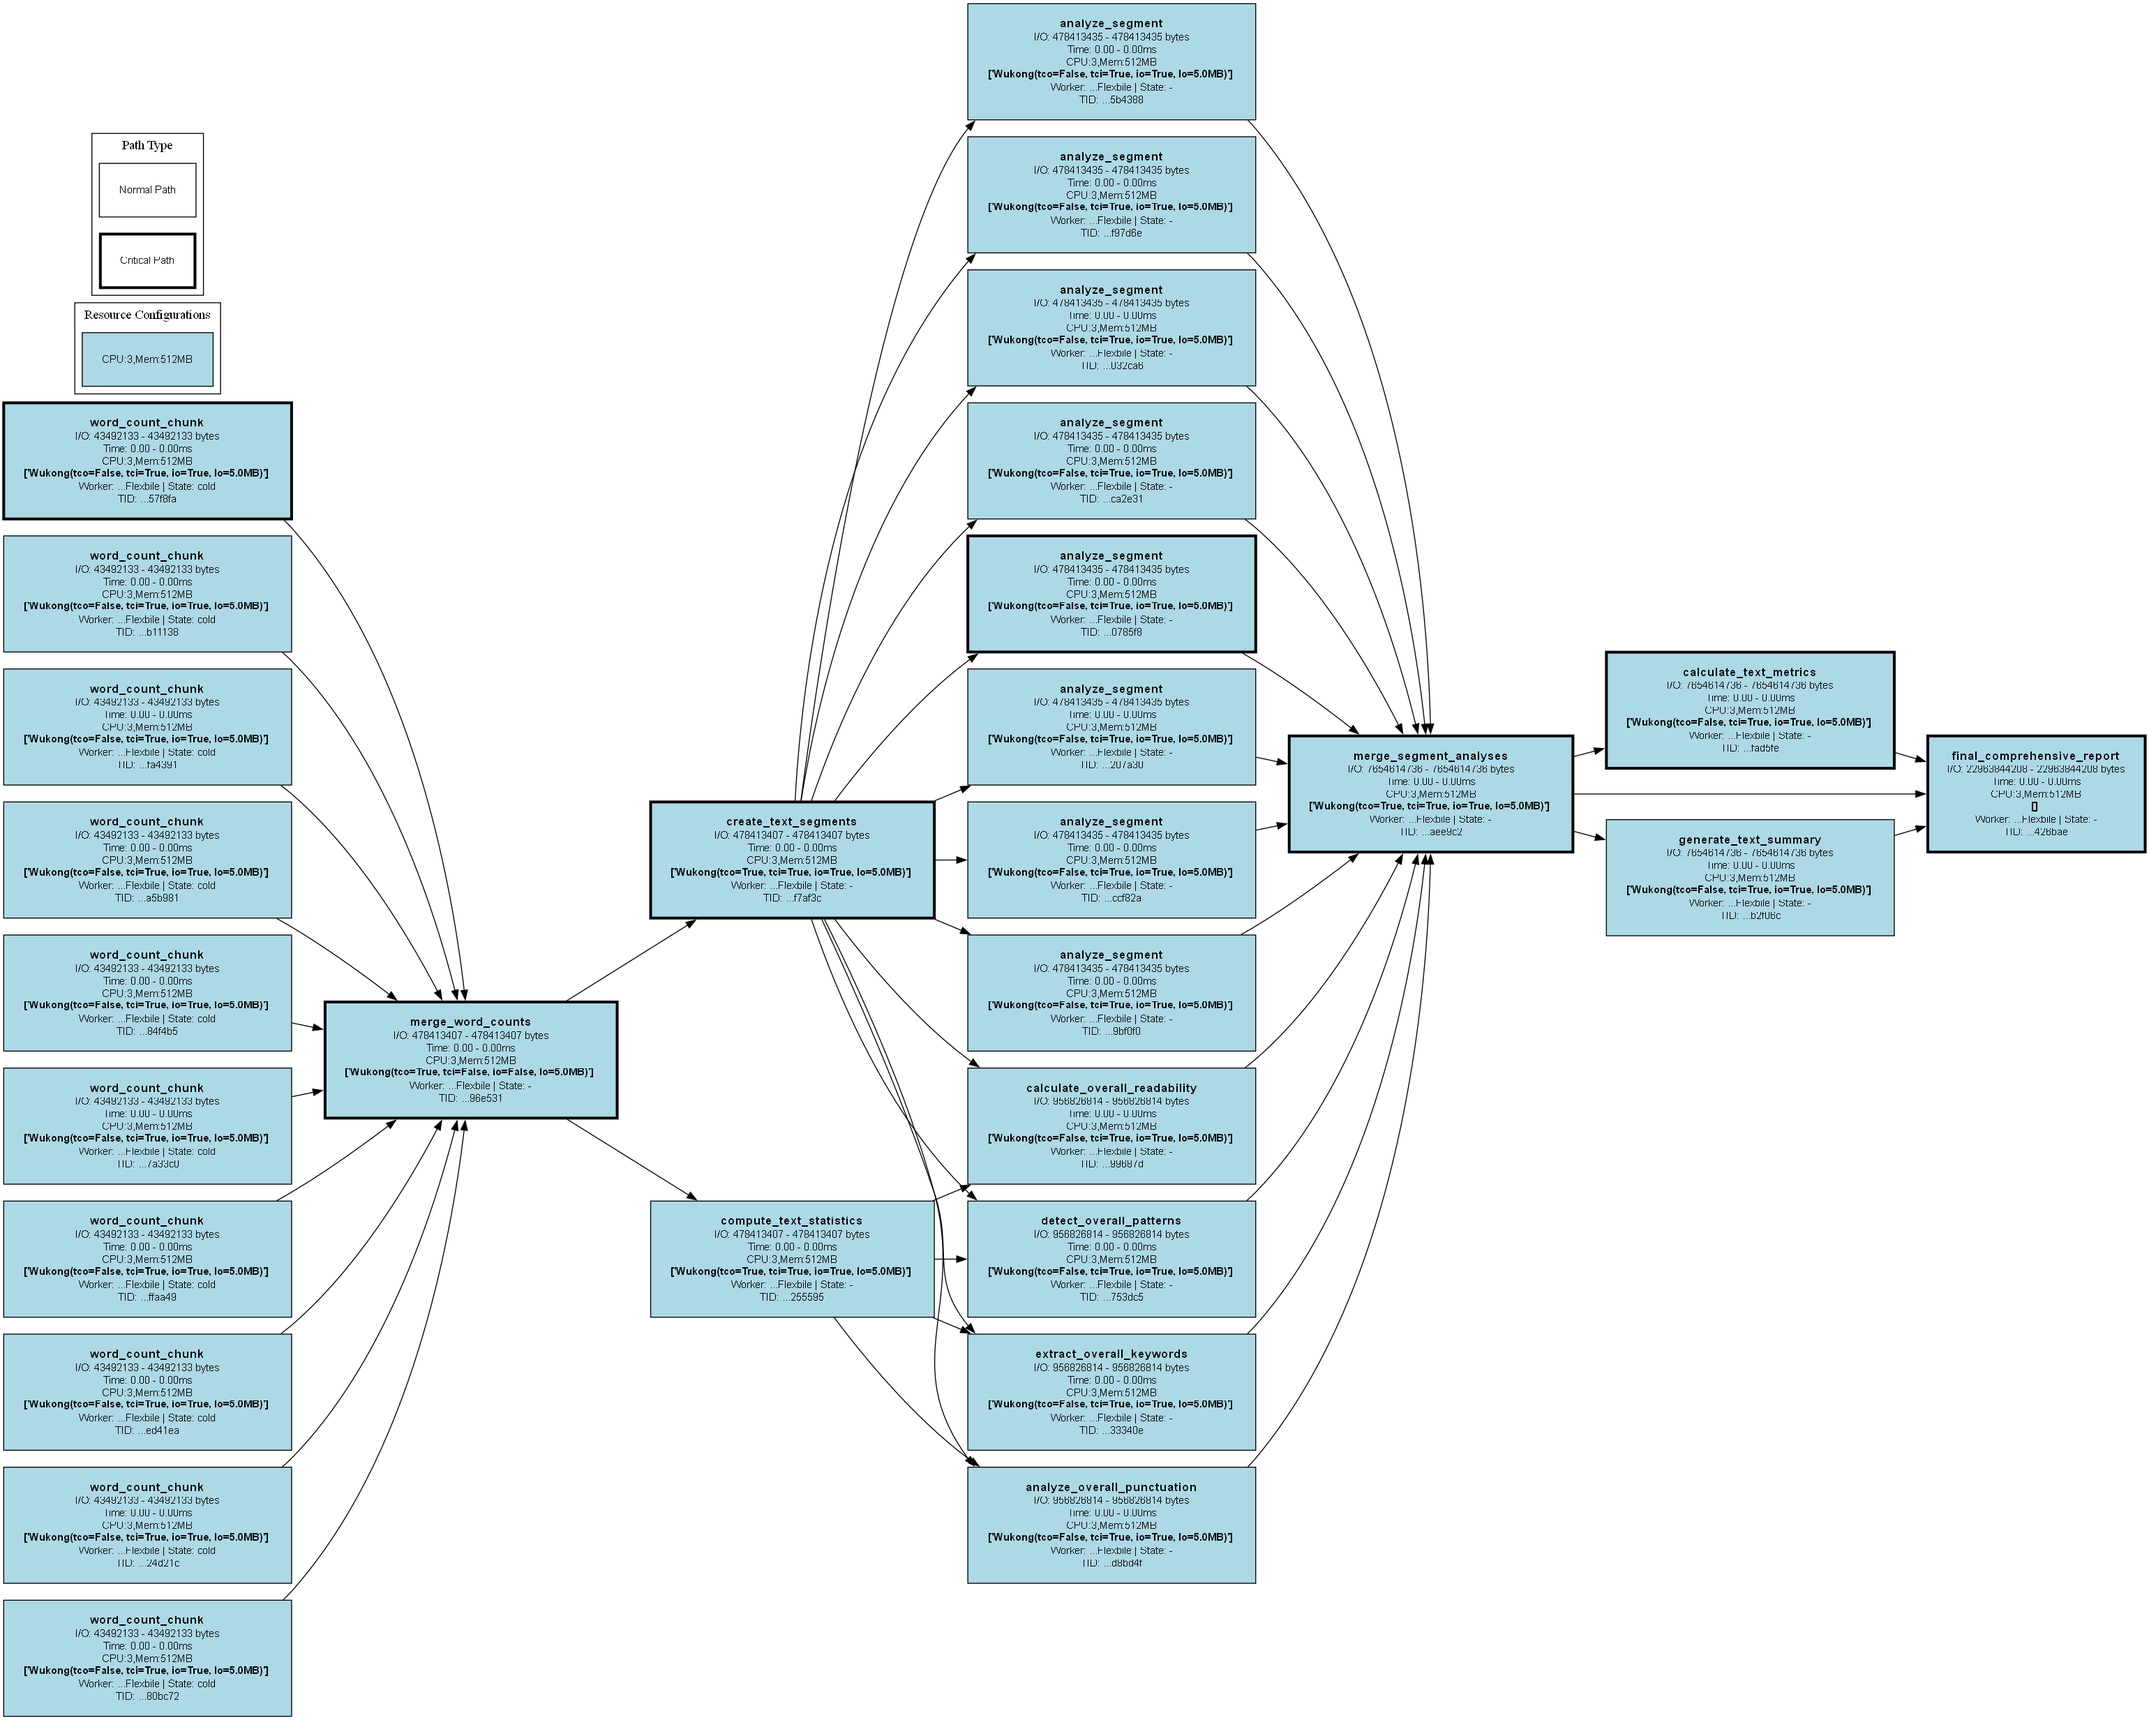
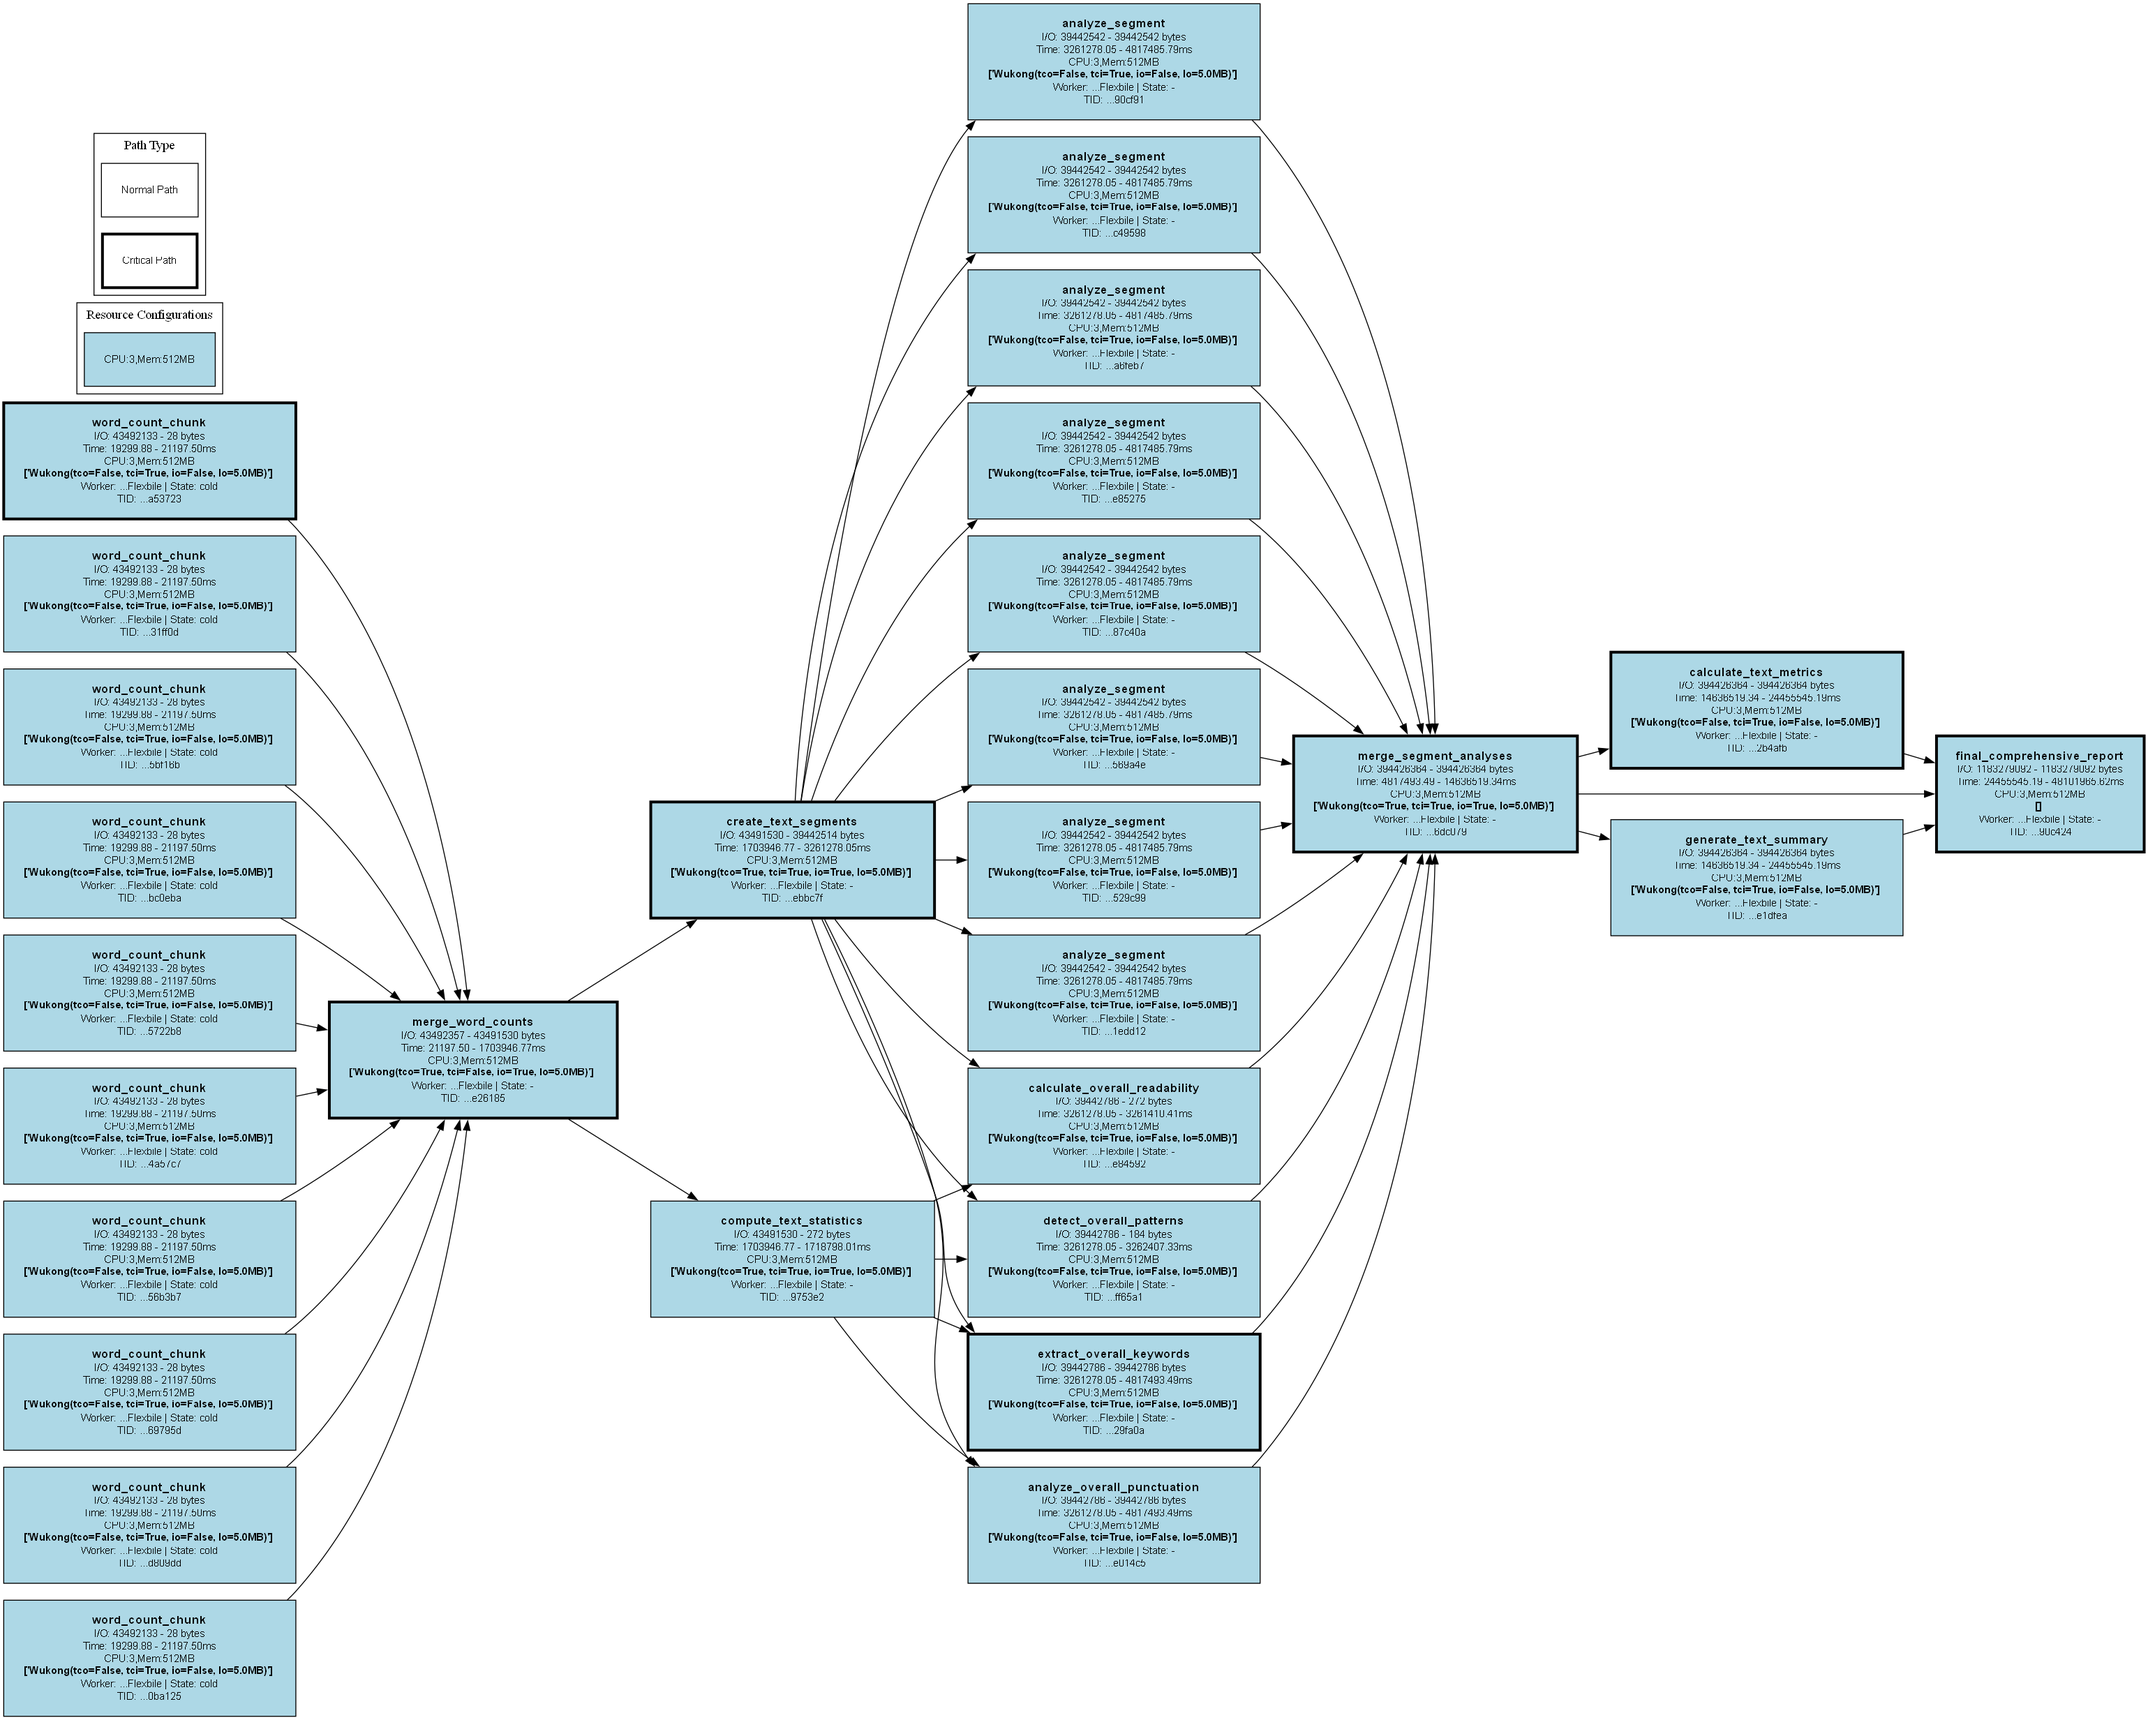
fix wukong optimization decorator assignment logic

diff --git a/_examples/original/text_analysis.py b/_examples/original/text_analysis.py
@@ -2,6 +2,8 @@ import os
 import sys
 import time
 from typing import List, Dict, Any
+import random
+from collections import Counter
 
 # Add parent directory to path
 sys.path.append(os.path.abspath(os.path.join(os.path.dirname(__file__), "..", "..")))
@@ -122,30 +124,37 @@ def analyze_segment(segments: List[str], segment_id: int) -> Dict[str, Any]:
 
 # --- New processing functions that work on the overall segments data ---
 
-@DAGTask
+@DAGTask  
 def extract_overall_keywords(segments: List[str], text_stats: Dict[str, Any]) -> Dict[str, Any]:
-    """Extract keywords from all segments combined, enhanced with text statistics"""
-    all_text = " ".join(segments)
-    words = [w.lower().strip('.,!?;:"()') for w in all_text.split()]
+    MAX_SAMPLE_SIZE = 50
+    MAX_WORDS_PER_SEGMENT = 100
     
-    # Use text statistics to inform keyword extraction
-    common_words = {word for word, _ in text_stats["most_common_words"]}
+    if len(segments) > MAX_SAMPLE_SIZE:
+        sample_segments = random.sample(segments, MAX_SAMPLE_SIZE)
+    else:
+        sample_segments = segments
     
-    # Enhanced keyword extraction using statistical data
-    keywords = [w for w in words if len(w) > 5 and w not in common_words]
-    keyword_freq = {}
-    for word in keywords:
-        keyword_freq[word] = keyword_freq.get(word, 0) + 1
+    common_words = {word for word, _ in text_stats["most_common_words"][:50]}  # Use fewer common words
+    keyword_counter = Counter()
+    total_processed = 0
     
-    # Get top keywords by frequency
-    sorted_keywords = sorted(keyword_freq.items(), key=lambda x: x[1], reverse=True)
+    for segment in sample_segments:
+        words = segment.lower().split()[:MAX_WORDS_PER_SEGMENT]  # Limit words per segment
+        total_processed += len(words)
+        
+        for word in words:
+            clean_word = word.strip('.,!?;:"()')
+            if 5 < len(clean_word) < 20 and clean_word not in common_words:  # Add max length limit
+                keyword_counter[clean_word] += 1
     
     return {
-        "type": "overall_keywords",
-        "top_keywords": sorted_keywords[:20],
-        "total_keywords": len(keyword_freq),
-        "keyword_density": len(keywords) / len(words) if words else 0,
-        "avg_word_length_context": text_stats["avg_word_length"]
+        "type": "overall_keywords", 
+        "top_keywords": keyword_counter.most_common(10),  # Return fewer keywords
+        "total_keywords": len(keyword_counter),
+        "keyword_density": len(keyword_counter) / total_processed if total_processed > 0 else 0,
+        "avg_word_length_context": text_stats["avg_word_length"],
+        "is_sample": True,
+        "sample_size": len(sample_segments)
     }
 
 @DAGTask
@@ -340,7 +349,7 @@ final_report = final_comprehensive_report(metrics, summary, merged_analysis)
 
 # --- Run workflow ---
 start_time = time.time()
-result = final_report.compute(dag_name="text_analysis", config=WORKER_CONFIG, open_dashboard=False)
+result = final_report.compute(dag_name="text_analysis", config=WORKER_CONFIG, open_dashboard=True)
 print(f"Result keys: {list(result.keys())} | User waited: {time.time() - start_time:.3f}s")
 print(f"Analysis complete - processed {result['detailed_analysis']['total_words']} words in {result['detailed_analysis']['total_segments']} segments")
 print(f"Found {result['detailed_analysis']['keywords_analysis']['total_keywords']} unique keywords")

diff --git a/src/planning/optimizations/wukong_optimizations.py b/src/planning/optimizations/wukong_optimizations.py
@@ -59,7 +59,7 @@ class WukongOptimizations(TaskOptimization, WorkerExecutionLogic):
                 node.add_optimization(WukongOptimizations(
                     task_clustering_fan_outs=is_fan_out_origin,
                     task_clustering_fan_ins=is_fan_in_upstream,
-                    delayed_io=is_fan_in_upstream and WukongOptimizations.delayed_io,
+                    delayed_io=is_fan_out_origin and WukongOptimizations.delayed_io,
                 ))
 
     @staticmethod
@@ -163,7 +163,7 @@ class WukongOptimizations(TaskOptimization, WorkerExecutionLogic):
                         dependencies_met = 0 if dependencies_met is None else int(dependencies_met)
                         if dependencies_met == len(dtask.upstream_nodes):
                             assert _this_worker.my_worker_id
-                            asyncio.create_task(_this_worker.execute_branch(subdag.create_subdag(dtask), fulldag, my_worker_id=_this_worker.my_worker_id))
+                            asyncio.create_task(_this_worker.execute_branch(subdag.create_subdag(dtask), fulldag, my_worker_id=_this_worker.my_worker_id), name=f"TCI_{dtask.id.get_full_id()}")
                             logger.info(f"[WUKONG_DBG] W({this_worker.my_worker_id}) TCI | Executing task {dtask.id.get_full_id()}...")
                             await dtask.completed_event.wait()
                             logger.info(f"[WUKONG_DBG] W({this_worker.my_worker_id}) TCI | Task {dtask.id.get_full_id()} completed")
@@ -177,7 +177,7 @@ class WukongOptimizations(TaskOptimization, WorkerExecutionLogic):
                     dtask_ready = mutable_downstream_tasks_ready.pop() # remove task
                     assert _this_worker.my_worker_id
                     # can't await `execute_branch` as it will keep on going and we only want to wait for the first task to complete
-                    asyncio.create_task(_this_worker.execute_branch(subdag.create_subdag(dtask_ready), fulldag, my_worker_id=_this_worker.my_worker_id))
+                    asyncio.create_task(_this_worker.execute_branch(subdag.create_subdag(dtask_ready), fulldag, my_worker_id=_this_worker.my_worker_id), name=f"TCO_DIO_{dtask_ready.id.get_full_id()}")
                     logger.info(f"[WUKONG_DBG] W({this_worker.my_worker_id}) TCO | Executing task {dtask_ready.id.get_full_id()}...")
                     await dtask_ready.completed_event.wait()
                     logger.info(f"[WUKONG_DBG] W({this_worker.my_worker_id}) TCO | Task {dtask_ready.id.get_full_id()} completed")
@@ -220,9 +220,11 @@ class WukongOptimizations(TaskOptimization, WorkerExecutionLogic):
         for dtask_ready in downstream_tasks_ready:
             if dtask_ready.id.get_full_id() in tasks_completed: continue
             if not task_for_me_to_execute:
+                logger.info(f"[WUKONG_DBG] W({this_worker.my_worker_id}) I will execute: {dtask_ready.id.get_full_id()}")
                 # 1 task for me to execute
                 task_for_me_to_execute = dtask_ready
             else:
+                logger.info(f"[WUKONG_DBG] W({this_worker.my_worker_id}) Delegate: {dtask_ready.id.get_full_id()}")
                 # 1 worker for each of the N READY task
                 await _this_worker.delegate([subdag.create_subdag(dtask_ready)], fulldag, called_by_worker=True)
         
